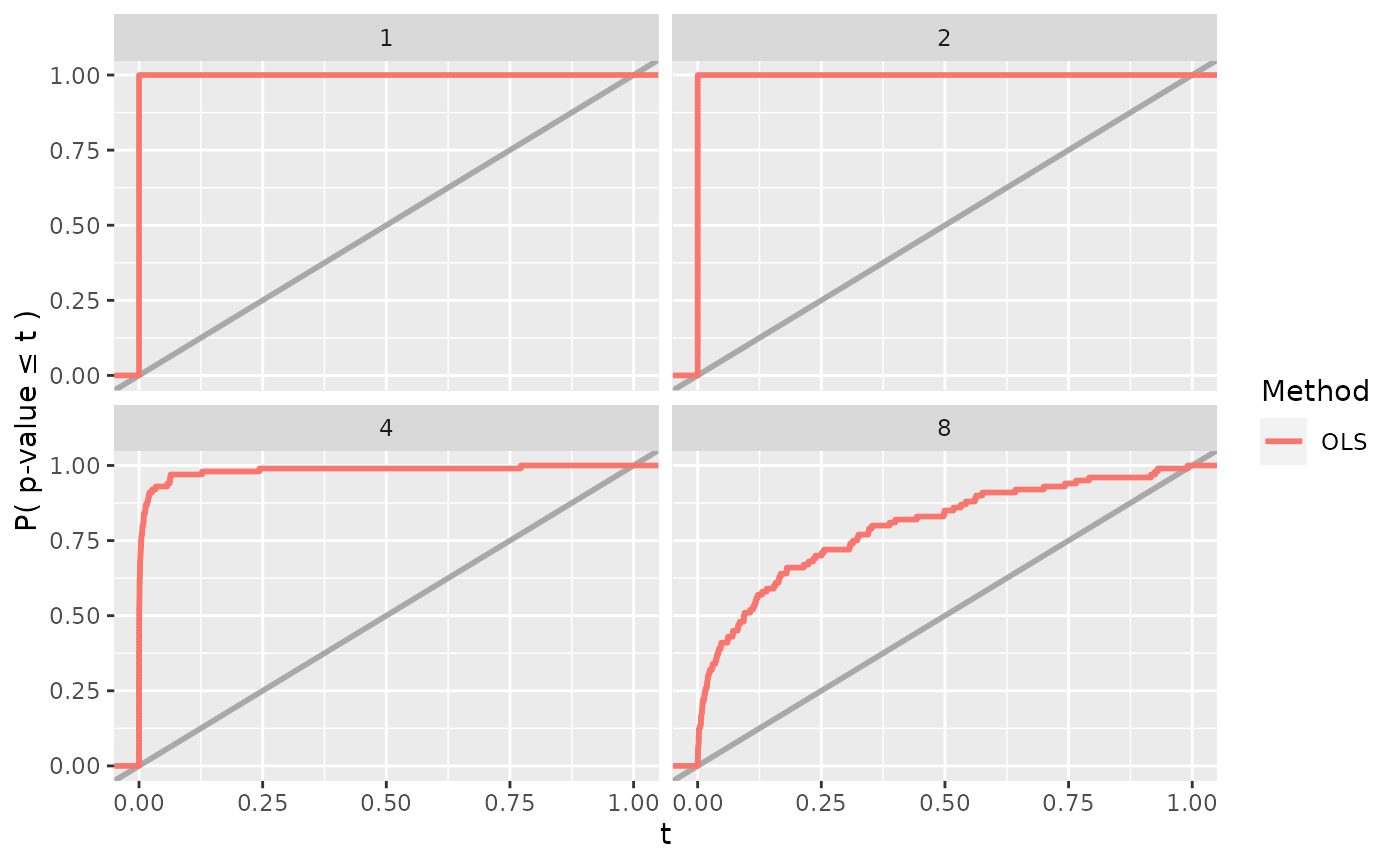
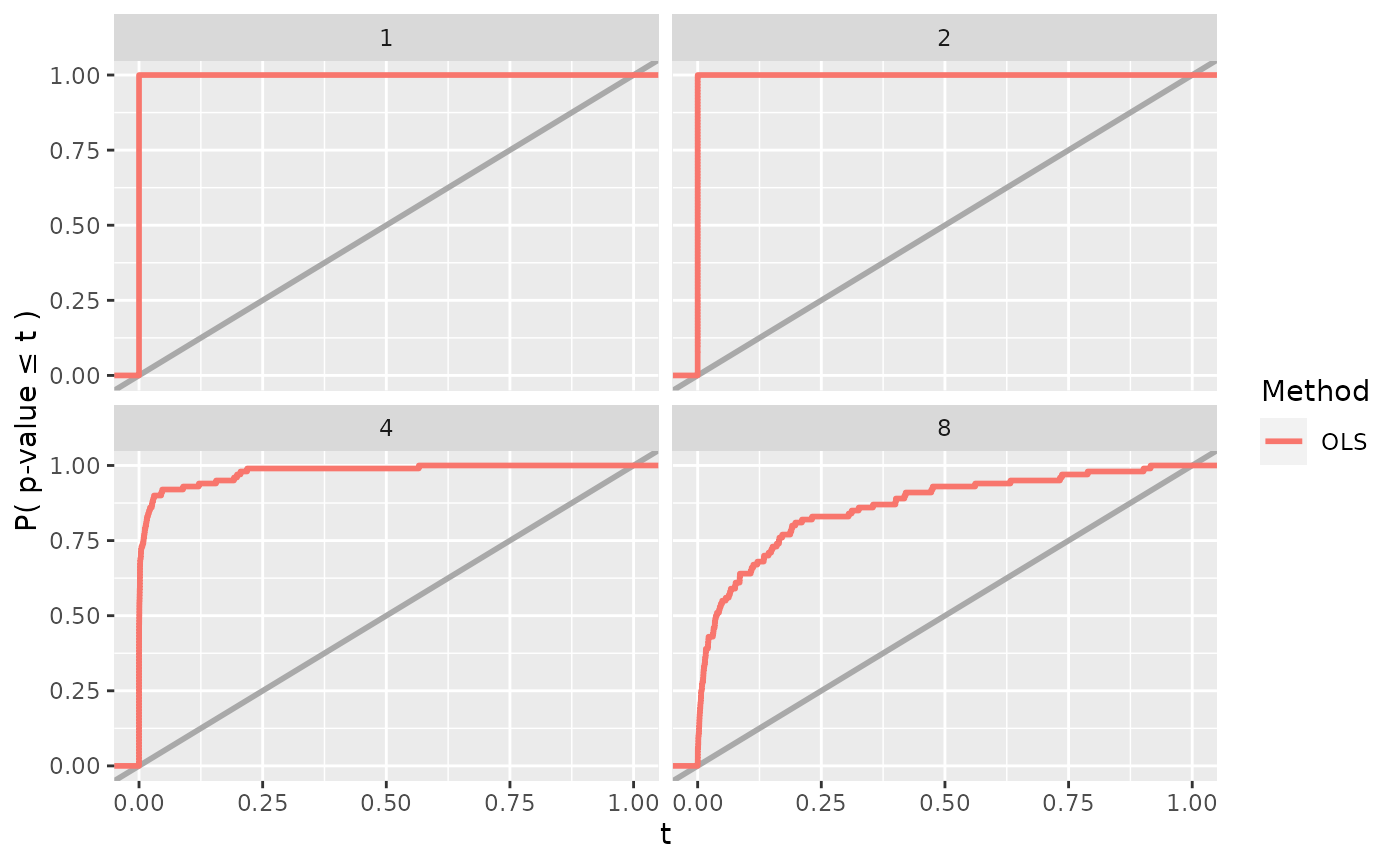
Built site for simChef: 0.0.1@d57ae60

Changed region(s): [[0.4914, 0.5306, 0.86, 0.8428], [0.0921, 0.5306, 0.1843, 0.6243], [0.3071, 0.5306, 0.3686, 0.5618]]

diff --git a/articles/simChef.html b/articles/simChef.html
@@ -269,20 +269,30 @@
 <div class="sourceCode" id="cb14"><pre class="downlit sourceCode r">
 <code class="sourceCode R"><span class="va">results</span> <span class="op">&lt;-</span> <span class="va">experiment</span><span class="op">$</span><span class="fu">run</span><span class="op">(</span>n_reps <span class="op">=</span> <span class="fl">100</span>, save <span class="op">=</span> <span class="cn">TRUE</span><span class="op">)</span>
 <span class="co">#&gt; Fitting Linear Regression Experiment...</span>
-<span class="co">#&gt; Fitting completed | time taken: 0.031849 minutes</span>
+<span class="co">#&gt; Fitting completed | time taken: 0.020827 minutes</span>
 <span class="co">#&gt; Saving fit results...</span>
-<span class="co">#&gt; Fit results saved | time taken: 0.023014 seconds</span>
+<span class="co">#&gt; Fit results saved | time taken: 0.019356 seconds</span>
 <span class="co">#&gt; ==============================</span>
 <span class="co">#&gt; Evaluating Linear Regression Experiment...</span>
+<span class="co">#&gt; </span>
+<span class="co">#&gt; Message occured while processing *Rejection Prob. (alpha = 0.1)* with params:</span>
+<span class="co">#&gt;  $ fit_results: tibble [100 × 5] (S3: tbl_df/tbl/data.frame)</span>
+<span class="co">#&gt;   ..$ rep        : chr [1:100] "1" "2" "3" "4" ...</span>
+<span class="co">#&gt;   ..$ dgp_name   : chr [1:100] "Linear Gaussian DGP" "Linear Gaussian DGP" "Linear Gaussian DGP" "Linear Gaussian DGP" ...</span>
+<span class="co">#&gt;   ..$ method_name: chr [1:100] "OLS" "OLS" "OLS" "OLS" ...</span>
+<span class="co">#&gt;   ..$ X1 p-value : num [1:100] 2.22e-33 2.02e-23 3.80e-27 1.58e-26 2.83e-22 ...</span>
+<span class="co">#&gt;   ..$ X2 p-value : num [1:100] 0.126 0.529 0.267 0.873 0.53 ...</span>
+<span class="co">#&gt;  $ vary_params: NULL</span>
+<span class="co">#&gt; The message: `summarise()` has grouped output by 'dgp_name'. You can override using the `.groups` argument.</span>
 <span class="co">#&gt; `summarise()` has grouped output by 'dgp_name'. You can override using the `.groups` argument.</span>
-<span class="co">#&gt; Evaluation completed | time taken: 0.000281 minutes</span>
+<span class="co">#&gt; Evaluation completed | time taken: 0.000839 minutes</span>
 <span class="co">#&gt; Saving eval results...</span>
-<span class="co">#&gt; Eval results saved | time taken: 0.090024 seconds</span>
+<span class="co">#&gt; Eval results saved | time taken: 0.060789 seconds</span>
 <span class="co">#&gt; ==============================</span>
 <span class="co">#&gt; Visualizing Linear Regression Experiment...</span>
-<span class="co">#&gt; Visualization completed | time taken: 0.002115 minutes</span>
+<span class="co">#&gt; Visualization completed | time taken: 0.001653 minutes</span>
 <span class="co">#&gt; Saving visualize results...</span>
-<span class="co">#&gt; Visualize results saved | time taken: 0.074194 seconds</span>
+<span class="co">#&gt; Visualize results saved | time taken: 0.065136 seconds</span>
 <span class="co">#&gt; ==============================</span></code></pre></div>
 <p>or alternatively,</p>
 <div class="sourceCode" id="cb15"><pre class="downlit sourceCode r">
@@ -310,23 +320,23 @@
 <span class="co">#&gt; # A tibble: 100 × 5</span>
 <span class="co">#&gt;    rep   dgp_name            method_name `X1 p-value` `X2 p-value`</span>
 <span class="co">#&gt;    &lt;chr&gt; &lt;chr&gt;               &lt;chr&gt;              &lt;dbl&gt;        &lt;dbl&gt;</span>
-<span class="co">#&gt;  1 1     Linear Gaussian DGP OLS             5.63e-33      0.292  </span>
-<span class="co">#&gt;  2 2     Linear Gaussian DGP OLS             7.73e-36      0.461  </span>
-<span class="co">#&gt;  3 3     Linear Gaussian DGP OLS             8.32e-32      0.775  </span>
-<span class="co">#&gt;  4 4     Linear Gaussian DGP OLS             1.77e-34      0.00878</span>
-<span class="co">#&gt;  5 5     Linear Gaussian DGP OLS             2.59e-31      0.180  </span>
-<span class="co">#&gt;  6 6     Linear Gaussian DGP OLS             4.42e-34      0.426  </span>
-<span class="co">#&gt;  7 7     Linear Gaussian DGP OLS             3.16e-25      0.129  </span>
-<span class="co">#&gt;  8 8     Linear Gaussian DGP OLS             5.31e-37      0.535  </span>
-<span class="co">#&gt;  9 9     Linear Gaussian DGP OLS             1.46e-31      0.421  </span>
-<span class="co">#&gt; 10 10    Linear Gaussian DGP OLS             9.49e-37      0.404  </span>
+<span class="co">#&gt;  1 1     Linear Gaussian DGP OLS             2.22e-33        0.126</span>
+<span class="co">#&gt;  2 2     Linear Gaussian DGP OLS             2.02e-23        0.529</span>
+<span class="co">#&gt;  3 3     Linear Gaussian DGP OLS             3.80e-27        0.267</span>
+<span class="co">#&gt;  4 4     Linear Gaussian DGP OLS             1.58e-26        0.873</span>
+<span class="co">#&gt;  5 5     Linear Gaussian DGP OLS             2.83e-22        0.530</span>
+<span class="co">#&gt;  6 6     Linear Gaussian DGP OLS             4.16e-30        0.189</span>
+<span class="co">#&gt;  7 7     Linear Gaussian DGP OLS             5.33e-32        0.534</span>
+<span class="co">#&gt;  8 8     Linear Gaussian DGP OLS             2.86e-26        0.598</span>
+<span class="co">#&gt;  9 9     Linear Gaussian DGP OLS             6.41e-31        0.285</span>
+<span class="co">#&gt; 10 10    Linear Gaussian DGP OLS             4.85e-32        0.566</span>
 <span class="co">#&gt; # … with 90 more rows</span>
 <span class="va">results</span><span class="op">$</span><span class="va">eval_results</span>
 <span class="co">#&gt; $`Rejection Prob. (alpha = 0.1)`</span>
 <span class="co">#&gt; # A tibble: 1 × 4</span>
 <span class="co">#&gt;   dgp_name            method_name `X1 Reject Prob.` `X2 Reject Prob.`</span>
 <span class="co">#&gt;   &lt;chr&gt;               &lt;chr&gt;                   &lt;dbl&gt;             &lt;dbl&gt;</span>
-<span class="co">#&gt; 1 Linear Gaussian DGP OLS                         1              0.13</span>
+<span class="co">#&gt; 1 Linear Gaussian DGP OLS                         1              0.08</span>
 <span class="va">results</span><span class="op">$</span><span class="va">visualize_results</span>
 <span class="co">#&gt; $Power</span></code></pre></div>
 <p><img src="simChef_files/figure-html/unnamed-chunk-17-1.png" width="700"></p>
@@ -392,26 +402,26 @@
 <div class="sourceCode" id="cb21"><pre class="downlit sourceCode r">
 <code class="sourceCode R"><span class="va">vary_results</span> <span class="op">&lt;-</span> <span class="va">experiment</span><span class="op">$</span><span class="fu">run</span><span class="op">(</span>n_reps <span class="op">=</span> <span class="fl">100</span>, save <span class="op">=</span> <span class="cn">TRUE</span><span class="op">)</span>
 <span class="co">#&gt; Fitting Linear Regression Experiment...</span>
-<span class="co">#&gt; Fitting completed | time taken: 0.100646 minutes</span>
+<span class="co">#&gt; Fitting completed | time taken: 0.067906 minutes</span>
 <span class="co">#&gt; Saving fit results...</span>
-<span class="co">#&gt; Fit results saved | time taken: 0.040037 seconds</span>
+<span class="co">#&gt; Fit results saved | time taken: 0.034354 seconds</span>
 <span class="co">#&gt; ==============================</span>
 <span class="co">#&gt; Evaluating Linear Regression Experiment...</span>
-<span class="co">#&gt; Evaluation completed | time taken: 0.000331 minutes</span>
+<span class="co">#&gt; Evaluation completed | time taken: 0.000392 minutes</span>
 <span class="co">#&gt; Saving eval results...</span>
-<span class="co">#&gt; Eval results saved | time taken: 0.051731 seconds</span>
+<span class="co">#&gt; Eval results saved | time taken: 0.038435 seconds</span>
 <span class="co">#&gt; ==============================</span>
 <span class="co">#&gt; Visualizing Linear Regression Experiment...</span>
-<span class="co">#&gt; Visualization completed | time taken: 0.000271 minutes</span>
+<span class="co">#&gt; Visualization completed | time taken: 0.000374 minutes</span>
 <span class="co">#&gt; Saving visualize results...</span>
-<span class="co">#&gt; Visualize results saved | time taken: 0.093574 seconds</span>
+<span class="co">#&gt; Visualize results saved | time taken: 0.085668 seconds</span>
 <span class="co">#&gt; ==============================</span>
 <span class="va">vary_results</span><span class="op">$</span><span class="va">eval_results</span>
 <span class="co">#&gt; $`Rejection Prob. (alpha = 0.1)`</span>
 <span class="co">#&gt; # A tibble: 1 × 4</span>
 <span class="co">#&gt;   dgp_name            method_name `X1 Reject Prob.` `X2 Reject Prob.`</span>
 <span class="co">#&gt;   &lt;chr&gt;               &lt;chr&gt;                   &lt;dbl&gt;             &lt;dbl&gt;</span>
-<span class="co">#&gt; 1 Linear Gaussian DGP OLS                     0.868            0.0975</span>
+<span class="co">#&gt; 1 Linear Gaussian DGP OLS                     0.898            0.0825</span>
 <span class="va">vary_results</span><span class="op">$</span><span class="va">visualize_results</span>
 <span class="co">#&gt; $Power</span></code></pre></div>
 <p><img src="simChef_files/figure-html/unnamed-chunk-22-1.png" width="700"></p>
@@ -464,34 +474,34 @@
   <span class="fu"><a href="../reference/update_funs.html">update_visualizer</a></span><span class="op">(</span><span class="va">power_plot</span>, name <span class="op">=</span> <span class="st">"Power"</span><span class="op">)</span> <span class="op">%&gt;%</span>
   <span class="fu"><a href="../reference/run_experiment.html">run_experiment</a></span><span class="op">(</span>n_reps <span class="op">=</span> <span class="fl">100</span>, save <span class="op">=</span> <span class="cn">TRUE</span><span class="op">)</span>
 <span class="co">#&gt; Fitting Linear Regression Experiment...</span>
-<span class="co">#&gt; Fitting completed | time taken: 0.100641 minutes</span>
+<span class="co">#&gt; Fitting completed | time taken: 0.067922 minutes</span>
 <span class="co">#&gt; Saving fit results...</span>
-<span class="co">#&gt; Fit results saved | time taken: 0.050999 seconds</span>
+<span class="co">#&gt; Fit results saved | time taken: 0.047866 seconds</span>
 <span class="co">#&gt; ==============================</span>
 <span class="co">#&gt; Evaluating Linear Regression Experiment...</span>
-<span class="co">#&gt; Evaluation completed | time taken: 0.000185 minutes</span>
+<span class="co">#&gt; Evaluation completed | time taken: 0.000313 minutes</span>
 <span class="co">#&gt; Saving eval results...</span>
-<span class="co">#&gt; Eval results saved | time taken: 0.051872 seconds</span>
+<span class="co">#&gt; Eval results saved | time taken: 0.046738 seconds</span>
 <span class="co">#&gt; ==============================</span>
 <span class="co">#&gt; Visualizing Linear Regression Experiment...</span>
-<span class="co">#&gt; Visualization completed | time taken: 0.000464 minutes</span>
+<span class="co">#&gt; Visualization completed | time taken: 0.000537 minutes</span>
 <span class="co">#&gt; Saving visualize results...</span>
-<span class="co">#&gt; Visualize results saved | time taken: 0.106866 seconds</span>
+<span class="co">#&gt; Visualize results saved | time taken: 0.096725 seconds</span>
 <span class="co">#&gt; ==============================</span>
 <span class="va">vary_results</span><span class="op">$</span><span class="va">eval_results</span>
 <span class="co">#&gt; $`Rejection Prob. (alpha = 0.1)`</span>
 <span class="co">#&gt; # A tibble: 4 × 5</span>
 <span class="co">#&gt;   dgp_name            method_name sigma `X1 Reject Prob.` `X2 Reject Prob.`</span>
 <span class="co">#&gt;   &lt;chr&gt;               &lt;chr&gt;       &lt;dbl&gt;             &lt;dbl&gt;             &lt;dbl&gt;</span>
-<span class="co">#&gt; 1 Linear Gaussian DGP OLS             1              1                 0.1 </span>
-<span class="co">#&gt; 2 Linear Gaussian DGP OLS             2              1                 0.11</span>
-<span class="co">#&gt; 3 Linear Gaussian DGP OLS             4              0.97              0.15</span>
-<span class="co">#&gt; 4 Linear Gaussian DGP OLS             8              0.51              0.06</span>
+<span class="co">#&gt; 1 Linear Gaussian DGP OLS             1              1                 0.09</span>
+<span class="co">#&gt; 2 Linear Gaussian DGP OLS             2              1                 0.08</span>
+<span class="co">#&gt; 3 Linear Gaussian DGP OLS             4              0.93              0.16</span>
+<span class="co">#&gt; 4 Linear Gaussian DGP OLS             8              0.64              0.05</span>
 <span class="va">vary_results</span><span class="op">$</span><span class="va">visualize_results</span>
 <span class="co">#&gt; $Power</span></code></pre></div>
 <p><img src="simChef_files/figure-html/unnamed-chunk-25-1.png" width="700"></p>
 <p>Note here we need to use <code>update_*</code> instead of <code>add_*</code> since an <code>Evaluator</code> named “Rejection Prob. (alpha = 0.1)” and a <code>Visualizer</code> named “Power” already exist in the <code>Experiment</code>. Using <code>add_*</code> will throw an error.</p>
-<p>For fun, let’s add another plot (in fact, an interactive plot using <code><a href="https://docs.ropensci.org/plotly/reference/ggplotly.html">plotly::ggplotly</a></code>) to our <code>Experiment</code> and run the <code>Experiment</code> across various values of the coefficient <span class="math inline">\(\boldsymbol{\beta}_2\)</span> and the correlation <span class="math inline">\(\rho\)</span> between features in <span class="math inline">\(\mathbf{X}\)</span>. (Note: the visualizer function below (<code>reject_prob_plot_fun</code>) takes in the <code>Evaluator</code> results, stored as <code>eval_results</code>, and plots the rejection probability for the <span class="math inline">\(\boldsymbol{\beta}_1\)</span> at <span class="math inline">\(\alpha = 0.1\)</span>.)</p>
+<p>For fun, let’s add another plot (in fact, an interactive plot using <code><a href="https://rdrr.io/pkg/plotly/man/ggplotly.html">plotly::ggplotly</a></code>) to our <code>Experiment</code> and run the <code>Experiment</code> across various values of the coefficient <span class="math inline">\(\boldsymbol{\beta}_2\)</span> and the correlation <span class="math inline">\(\rho\)</span> between features in <span class="math inline">\(\mathbf{X}\)</span>. (Note: the visualizer function below (<code>reject_prob_plot_fun</code>) takes in the <code>Evaluator</code> results, stored as <code>eval_results</code>, and plots the rejection probability for the <span class="math inline">\(\boldsymbol{\beta}_1\)</span> at <span class="math inline">\(\alpha = 0.1\)</span>.)</p>
 <div class="sourceCode" id="cb25"><pre class="downlit sourceCode r">
 <code class="sourceCode R"><span class="co"># create rejection probability plot</span>
 <span class="va">reject_prob_plot_fun</span> <span class="op">&lt;-</span> <span class="kw">function</span><span class="op">(</span><span class="va">eval_results</span>, <span class="va">vary_params</span> <span class="op">=</span> <span class="cn">NULL</span>, 
@@ -519,7 +529,7 @@
     <span class="va">plt</span> <span class="op">&lt;-</span> <span class="va">plt</span> <span class="op">+</span>
       <span class="fu">ggplot2</span><span class="fu">::</span><span class="fu"><a href="https://ggplot2.tidyverse.org/reference/geom_bar.html">geom_bar</a></span><span class="op">(</span>stat <span class="op">=</span> <span class="st">"identity"</span><span class="op">)</span>
   <span class="op">}</span>
-  <span class="kw"><a href="https://rdrr.io/r/base/function.html">return</a></span><span class="op">(</span><span class="fu">plotly</span><span class="fu">::</span><span class="fu"><a href="https://docs.ropensci.org/plotly/reference/ggplotly.html">ggplotly</a></span><span class="op">(</span><span class="va">plt</span><span class="op">)</span><span class="op">)</span>
+  <span class="kw"><a href="https://rdrr.io/r/base/function.html">return</a></span><span class="op">(</span><span class="fu">plotly</span><span class="fu">::</span><span class="fu"><a href="https://rdrr.io/pkg/plotly/man/ggplotly.html">ggplotly</a></span><span class="op">(</span><span class="va">plt</span><span class="op">)</span><span class="op">)</span>
 <span class="op">}</span>
 <span class="va">reject_prob_plot</span> <span class="op">&lt;-</span> <span class="fu"><a href="../reference/create_visualizer.html">create_visualizer</a></span><span class="op">(</span>visualizer_fun <span class="op">=</span> <span class="va">reject_prob_plot_fun</span>, alpha <span class="op">=</span> <span class="fl">0.1</span><span class="op">)</span>
 
@@ -537,19 +547,19 @@
                               <span class="fu"><a href="https://rdrr.io/r/base/c.html">c</a></span><span class="op">(</span><span class="fl">1</span>, <span class="fl">2</span><span class="op">)</span><span class="op">)</span><span class="op">)</span> <span class="op">%&gt;%</span>
   <span class="fu"><a href="../reference/run_experiment.html">run_experiment</a></span><span class="op">(</span>n_reps <span class="op">=</span> <span class="fl">100</span>, save <span class="op">=</span> <span class="cn">TRUE</span><span class="op">)</span>
 <span class="co">#&gt; Fitting Linear Regression Experiment...</span>
-<span class="co">#&gt; Fitting completed | time taken: 0.190106 minutes</span>
+<span class="co">#&gt; Fitting completed | time taken: 0.127486 minutes</span>
 <span class="co">#&gt; Saving fit results...</span>
-<span class="co">#&gt; Fit results saved | time taken: 0.048771 seconds</span>
+<span class="co">#&gt; Fit results saved | time taken: 0.041573 seconds</span>
 <span class="co">#&gt; ==============================</span>
 <span class="co">#&gt; Evaluating Linear Regression Experiment...</span>
-<span class="co">#&gt; Evaluation completed | time taken: 0.000478 minutes</span>
+<span class="co">#&gt; Evaluation completed | time taken: 0.000522 minutes</span>
 <span class="co">#&gt; Saving eval results...</span>
-<span class="co">#&gt; Eval results saved | time taken: 0.054456 seconds</span>
+<span class="co">#&gt; Eval results saved | time taken: 0.045377 seconds</span>
 <span class="co">#&gt; ==============================</span>
 <span class="co">#&gt; Visualizing Linear Regression Experiment...</span>
-<span class="co">#&gt; Visualization completed | time taken: 0.003438 minutes</span>
+<span class="co">#&gt; Visualization completed | time taken: 0.002815 minutes</span>
 <span class="co">#&gt; Saving visualize results...</span>
-<span class="co">#&gt; Visualize results saved | time taken: 0.159212 seconds</span>
+<span class="co">#&gt; Visualize results saved | time taken: 0.160457 seconds</span>
 <span class="co">#&gt; ==============================</span>
 
 <span class="co"># run experiment across values of rho (correlation)</span>
@@ -559,19 +569,19 @@
                   rho <span class="op">=</span> <span class="fu"><a href="https://rdrr.io/r/base/c.html">c</a></span><span class="op">(</span><span class="fl">0</span>, <span class="fl">0.2</span>, <span class="fl">0.5</span>, <span class="fl">0.9</span><span class="op">)</span><span class="op">)</span> <span class="op">%&gt;%</span>
   <span class="fu"><a href="../reference/run_experiment.html">run_experiment</a></span><span class="op">(</span>n_reps <span class="op">=</span> <span class="fl">100</span>, save <span class="op">=</span> <span class="cn">TRUE</span><span class="op">)</span>
 <span class="co">#&gt; Fitting Linear Regression Experiment...</span>
-<span class="co">#&gt; Fitting completed | time taken: 0.096784 minutes</span>
+<span class="co">#&gt; Fitting completed | time taken: 0.066717 minutes</span>
 <span class="co">#&gt; Saving fit results...</span>
-<span class="co">#&gt; Fit results saved | time taken: 0.060411 seconds</span>
+<span class="co">#&gt; Fit results saved | time taken: 0.042585 seconds</span>
 <span class="co">#&gt; ==============================</span>
 <span class="co">#&gt; Evaluating Linear Regression Experiment...</span>
-<span class="co">#&gt; Evaluation completed | time taken: 0.000224 minutes</span>
+<span class="co">#&gt; Evaluation completed | time taken: 0.000311 minutes</span>
 <span class="co">#&gt; Saving eval results...</span>
-<span class="co">#&gt; Eval results saved | time taken: 0.054293 seconds</span>
+<span class="co">#&gt; Eval results saved | time taken: 0.046172 seconds</span>
 <span class="co">#&gt; ==============================</span>
 <span class="co">#&gt; Visualizing Linear Regression Experiment...</span>
-<span class="co">#&gt; Visualization completed | time taken: 0.002025 minutes</span>
+<span class="co">#&gt; Visualization completed | time taken: 0.001939 minutes</span>
 <span class="co">#&gt; Saving visualize results...</span>
-<span class="co">#&gt; Visualize results saved | time taken: 0.159747 seconds</span>
+<span class="co">#&gt; Visualize results saved | time taken: 0.143713 seconds</span>
 <span class="co">#&gt; ==============================</span></code></pre></div>
 </div>
 <div id="experiment-as-an-r6-class" class="section level2">
@@ -788,15 +798,15 @@
 <div class="sourceCode" id="cb36"><pre class="downlit sourceCode r">
 <code class="sourceCode R"><span class="va">fit_results</span> <span class="op">&lt;-</span> <span class="va">experiment</span><span class="op">$</span><span class="fu">fit</span><span class="op">(</span>n_reps <span class="op">=</span> <span class="fl">100</span><span class="op">)</span>
 <span class="co">#&gt; Fitting Linear Regression Experiment...</span>
-<span class="co">#&gt; Fitting completed | time taken: 0.100117 minutes</span>
+<span class="co">#&gt; Fitting completed | time taken: 0.071897 minutes</span>
 <span class="co">#&gt; ==============================</span>
 <span class="va">eval_results</span> <span class="op">&lt;-</span> <span class="va">experiment</span><span class="op">$</span><span class="fu">evaluate</span><span class="op">(</span><span class="va">fit_results</span><span class="op">)</span>
 <span class="co">#&gt; Evaluating Linear Regression Experiment...</span>
-<span class="co">#&gt; Evaluation completed | time taken: 0.000209 minutes</span>
+<span class="co">#&gt; Evaluation completed | time taken: 0.000297 minutes</span>
 <span class="co">#&gt; ==============================</span>
 <span class="va">visualize_results</span> <span class="op">&lt;-</span> <span class="va">experiment</span><span class="op">$</span><span class="fu">visualize</span><span class="op">(</span><span class="va">fit_results</span>, <span class="va">eval_results</span><span class="op">)</span>
 <span class="co">#&gt; Visualizing Linear Regression Experiment...</span>
-<span class="co">#&gt; Visualization completed | time taken: 0.001993 minutes</span>
+<span class="co">#&gt; Visualization completed | time taken: 0.001690 minutes</span>
 <span class="co">#&gt; ==============================</span></code></pre></div>
 <p>or alternatively,</p>
 <div class="sourceCode" id="cb37"><pre class="downlit sourceCode r">
@@ -813,38 +823,38 @@
 <span class="co">#&gt;  $ Linear Gaussian DGP:List of 4</span>
 <span class="co">#&gt;   ..$ :List of 1</span>
 <span class="co">#&gt;   .. ..$ :List of 2</span>
-<span class="co">#&gt;   .. .. ..$ X: num [1:200, 1:2] -1.3967 -1.0069 0.2242 1.2363 0.0581 ...</span>
+<span class="co">#&gt;   .. .. ..$ X: num [1:200, 1:2] -1.339143 0.120629 -1.747505 0.000432 1.566503 ...</span>
 <span class="co">#&gt;   .. .. .. ..- attr(*, "dimnames")=List of 2</span>
 <span class="co">#&gt;   .. .. .. .. ..$ : NULL</span>
 <span class="co">#&gt;   .. .. .. .. ..$ : NULL</span>
-<span class="co">#&gt;   .. .. ..$ y: num [1:200, 1] -1.296 -1.517 -0.706 1.457 0.221 ...</span>
+<span class="co">#&gt;   .. .. ..$ y: num [1:200, 1] -1.02588 -0.63783 -2.86092 0.00705 0.88577 ...</span>
 <span class="co">#&gt;   .. ..- attr(*, "params")=List of 1</span>
 <span class="co">#&gt;   .. .. ..$ sigma: num 1</span>
 <span class="co">#&gt;   ..$ :List of 1</span>
 <span class="co">#&gt;   .. ..$ :List of 2</span>
-<span class="co">#&gt;   .. .. ..$ X: num [1:200, 1:2] 0.193 0.149 1.025 1.965 -1.764 ...</span>
+<span class="co">#&gt;   .. .. ..$ X: num [1:200, 1:2] 1.324 -0.435 1.302 0.813 0.54 ...</span>
 <span class="co">#&gt;   .. .. .. ..- attr(*, "dimnames")=List of 2</span>
 <span class="co">#&gt;   .. .. .. .. ..$ : NULL</span>
 <span class="co">#&gt;   .. .. .. .. ..$ : NULL</span>
-<span class="co">#&gt;   .. .. ..$ y: num [1:200, 1] -2.78 1.51 2.24 6.35 -3.96 ...</span>
+<span class="co">#&gt;   .. .. ..$ y: num [1:200, 1] -0.938 2 0.722 -1.727 1.99 ...</span>
 <span class="co">#&gt;   .. ..- attr(*, "params")=List of 1</span>
 <span class="co">#&gt;   .. .. ..$ sigma: num 2</span>
 <span class="co">#&gt;   ..$ :List of 1</span>
 <span class="co">#&gt;   .. ..$ :List of 2</span>
-<span class="co">#&gt;   .. .. ..$ X: num [1:200, 1:2] 1.8788 0.6627 0.2097 1.3415 0.0567 ...</span>
+<span class="co">#&gt;   .. .. ..$ X: num [1:200, 1:2] -0.297 1.131 1.826 -1.668 -0.983 ...</span>
 <span class="co">#&gt;   .. .. .. ..- attr(*, "dimnames")=List of 2</span>
 <span class="co">#&gt;   .. .. .. .. ..$ : NULL</span>
 <span class="co">#&gt;   .. .. .. .. ..$ : NULL</span>
-<span class="co">#&gt;   .. .. ..$ y: num [1:200, 1] -3.247 4.156 1.835 0.686 -3.66 ...</span>
+<span class="co">#&gt;   .. .. ..$ y: num [1:200, 1] -5.38 -1.44 6.07 2.32 -2.15 ...</span>
 <span class="co">#&gt;   .. ..- attr(*, "params")=List of 1</span>
 <span class="co">#&gt;   .. .. ..$ sigma: num 4</span>
 <span class="co">#&gt;   ..$ :List of 1</span>
 <span class="co">#&gt;   .. ..$ :List of 2</span>
-<span class="co">#&gt;   .. .. ..$ X: num [1:200, 1:2] -0.201 -0.963 0.301 -0.477 -2.048 ...</span>
+<span class="co">#&gt;   .. .. ..$ X: num [1:200, 1:2] -0.0298 0.0167 0.3915 -0.9236 -1.2662 ...</span>
 <span class="co">#&gt;   .. .. .. ..- attr(*, "dimnames")=List of 2</span>
 <span class="co">#&gt;   .. .. .. .. ..$ : NULL</span>
 <span class="co">#&gt;   .. .. .. .. ..$ : NULL</span>
-<span class="co">#&gt;   .. .. ..$ y: num [1:200, 1] -4.2044 0.0698 -3.5804 15.8645 -4.9618 ...</span>
+<span class="co">#&gt;   .. .. ..$ y: num [1:200, 1] -1.592 0.478 -10.107 -1.28 0.395 ...</span>
 <span class="co">#&gt;   .. ..- attr(*, "params")=List of 1</span>
 <span class="co">#&gt;   .. .. ..$ sigma: num 8</span></code></pre></div>
 <p>or alternatively,</p>

diff --git a/articles/parallel.html b/articles/parallel.html
@@ -236,7 +236,7 @@
   <span class="op">)</span>
 <span class="op">)</span>
 <span class="co">#&gt; Fitting base...</span>
-<span class="co">#&gt; Fitting completed | time taken: 0.959961 minutes</span>
+<span class="co">#&gt; Fitting completed | time taken: 0.874809 minutes</span>
 <span class="co">#&gt; ==============================</span>
 <span class="co">#&gt; # A tibble: 136 × 16</span>
 <span class="co">#&gt;    rep   dgp_name   method_name     p   rho sparsity nonzero_coeff alpha term   </span>
